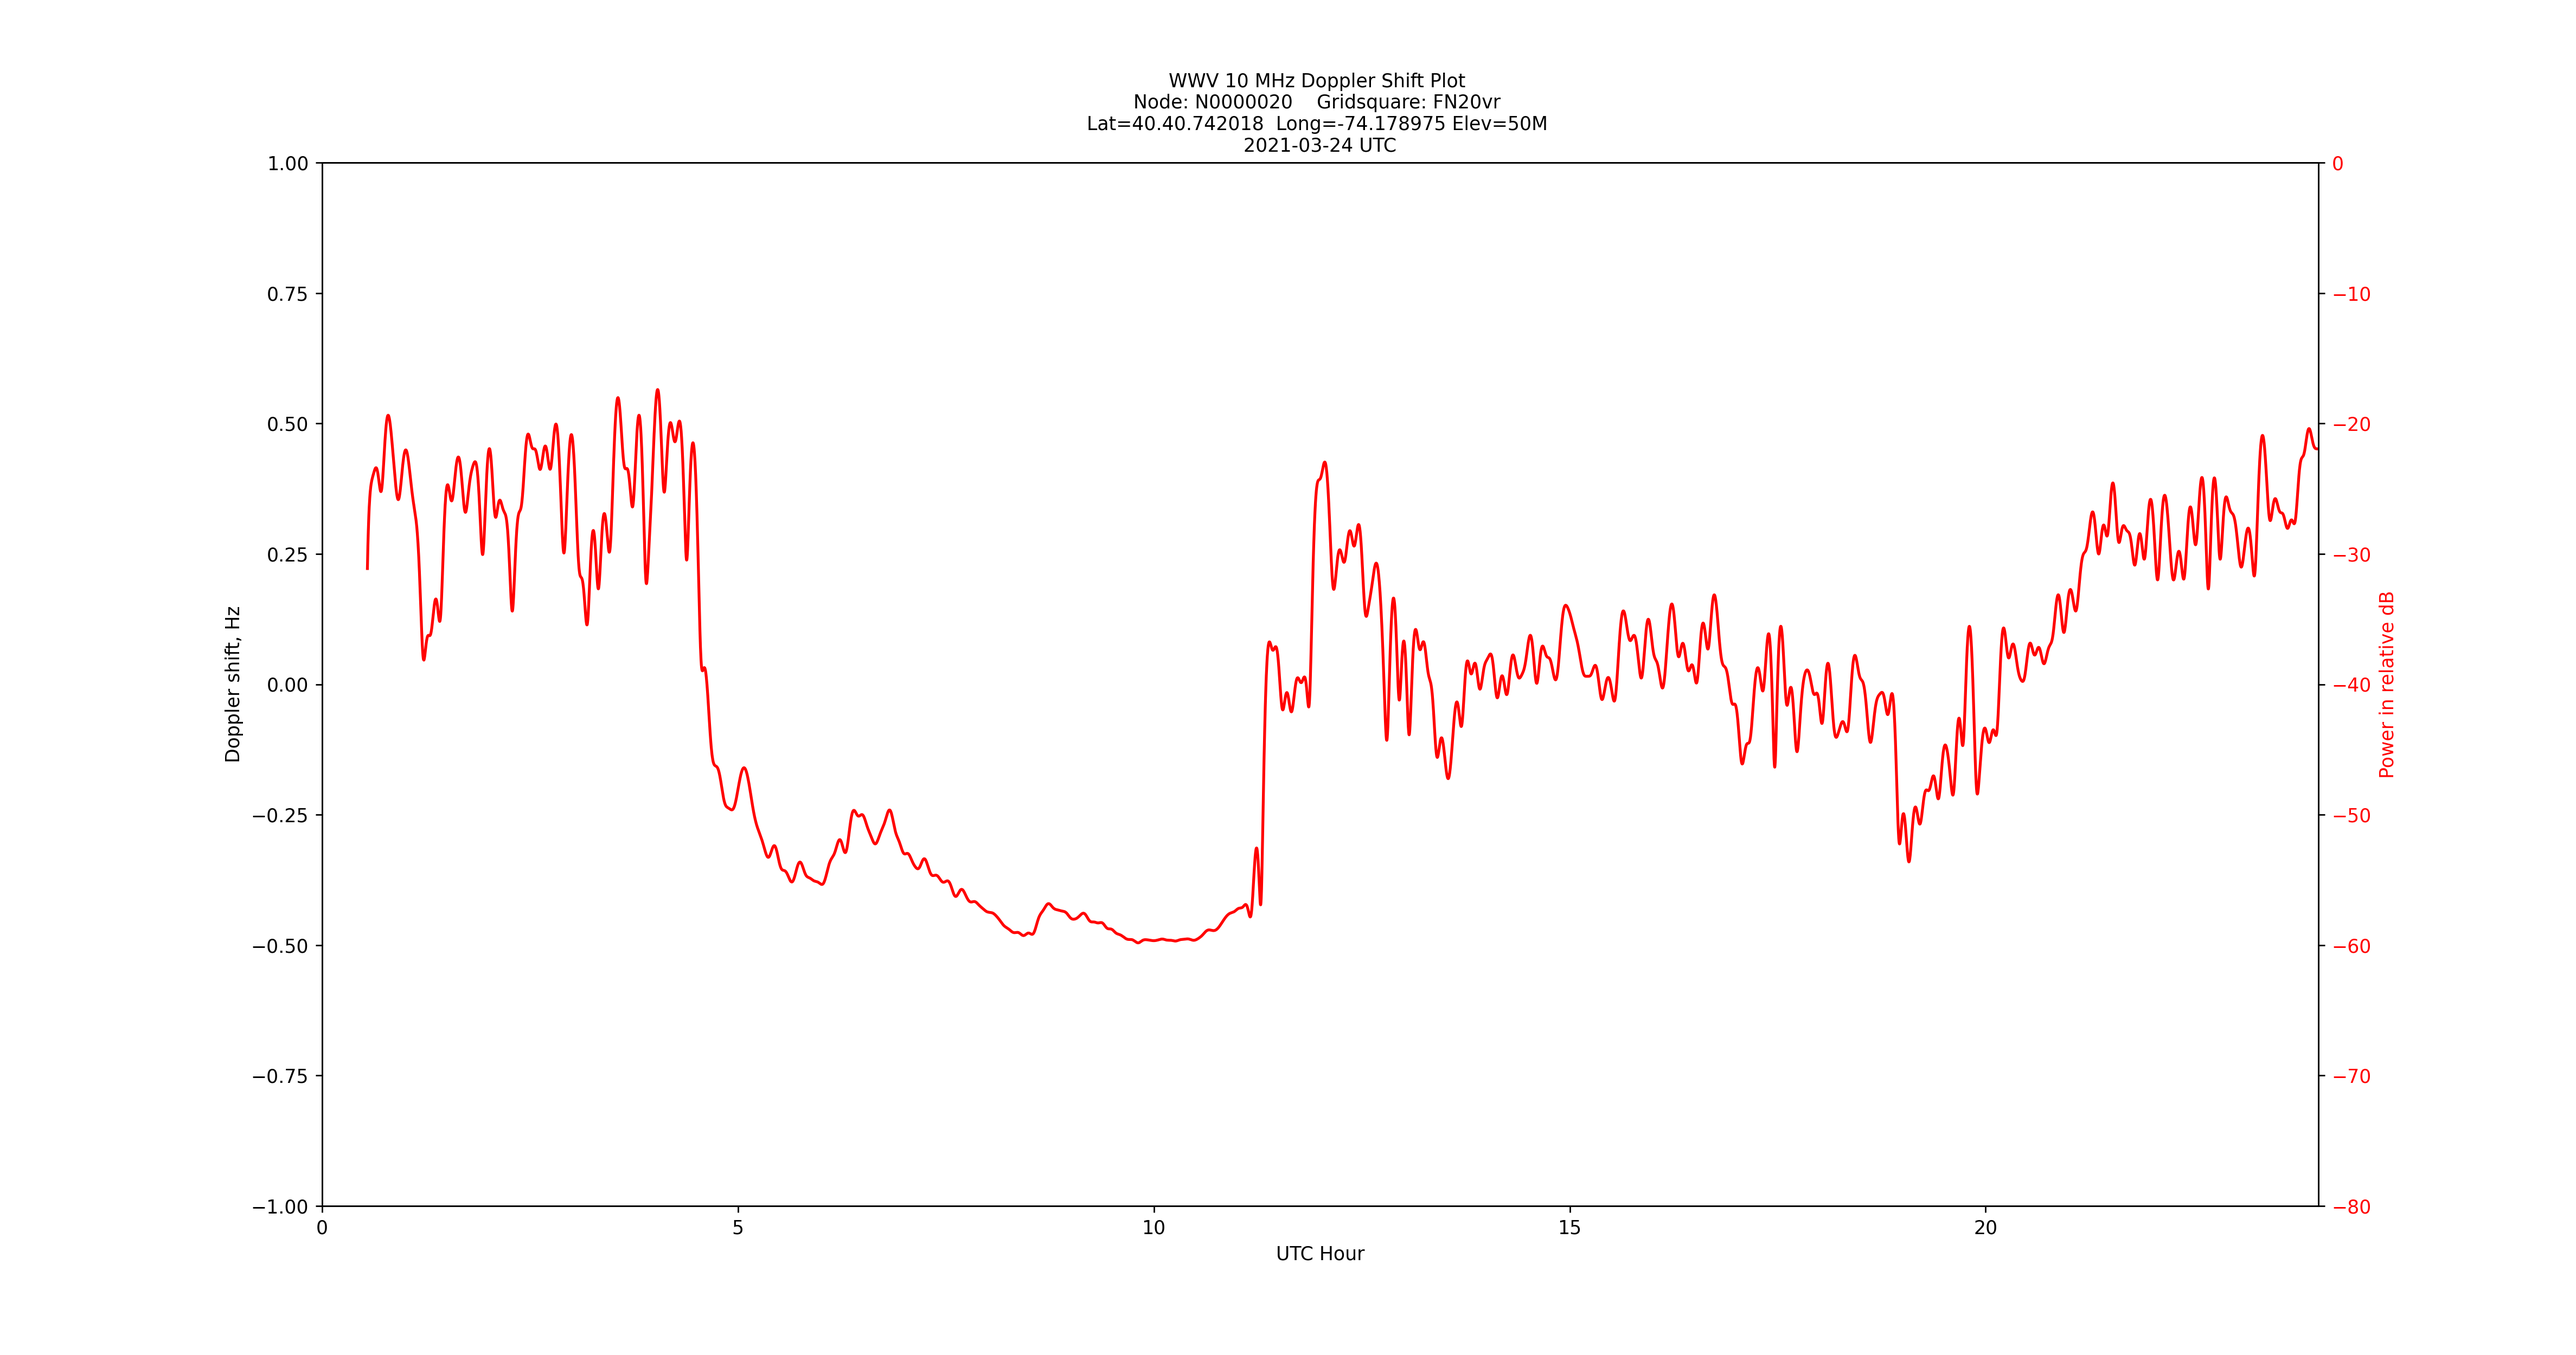
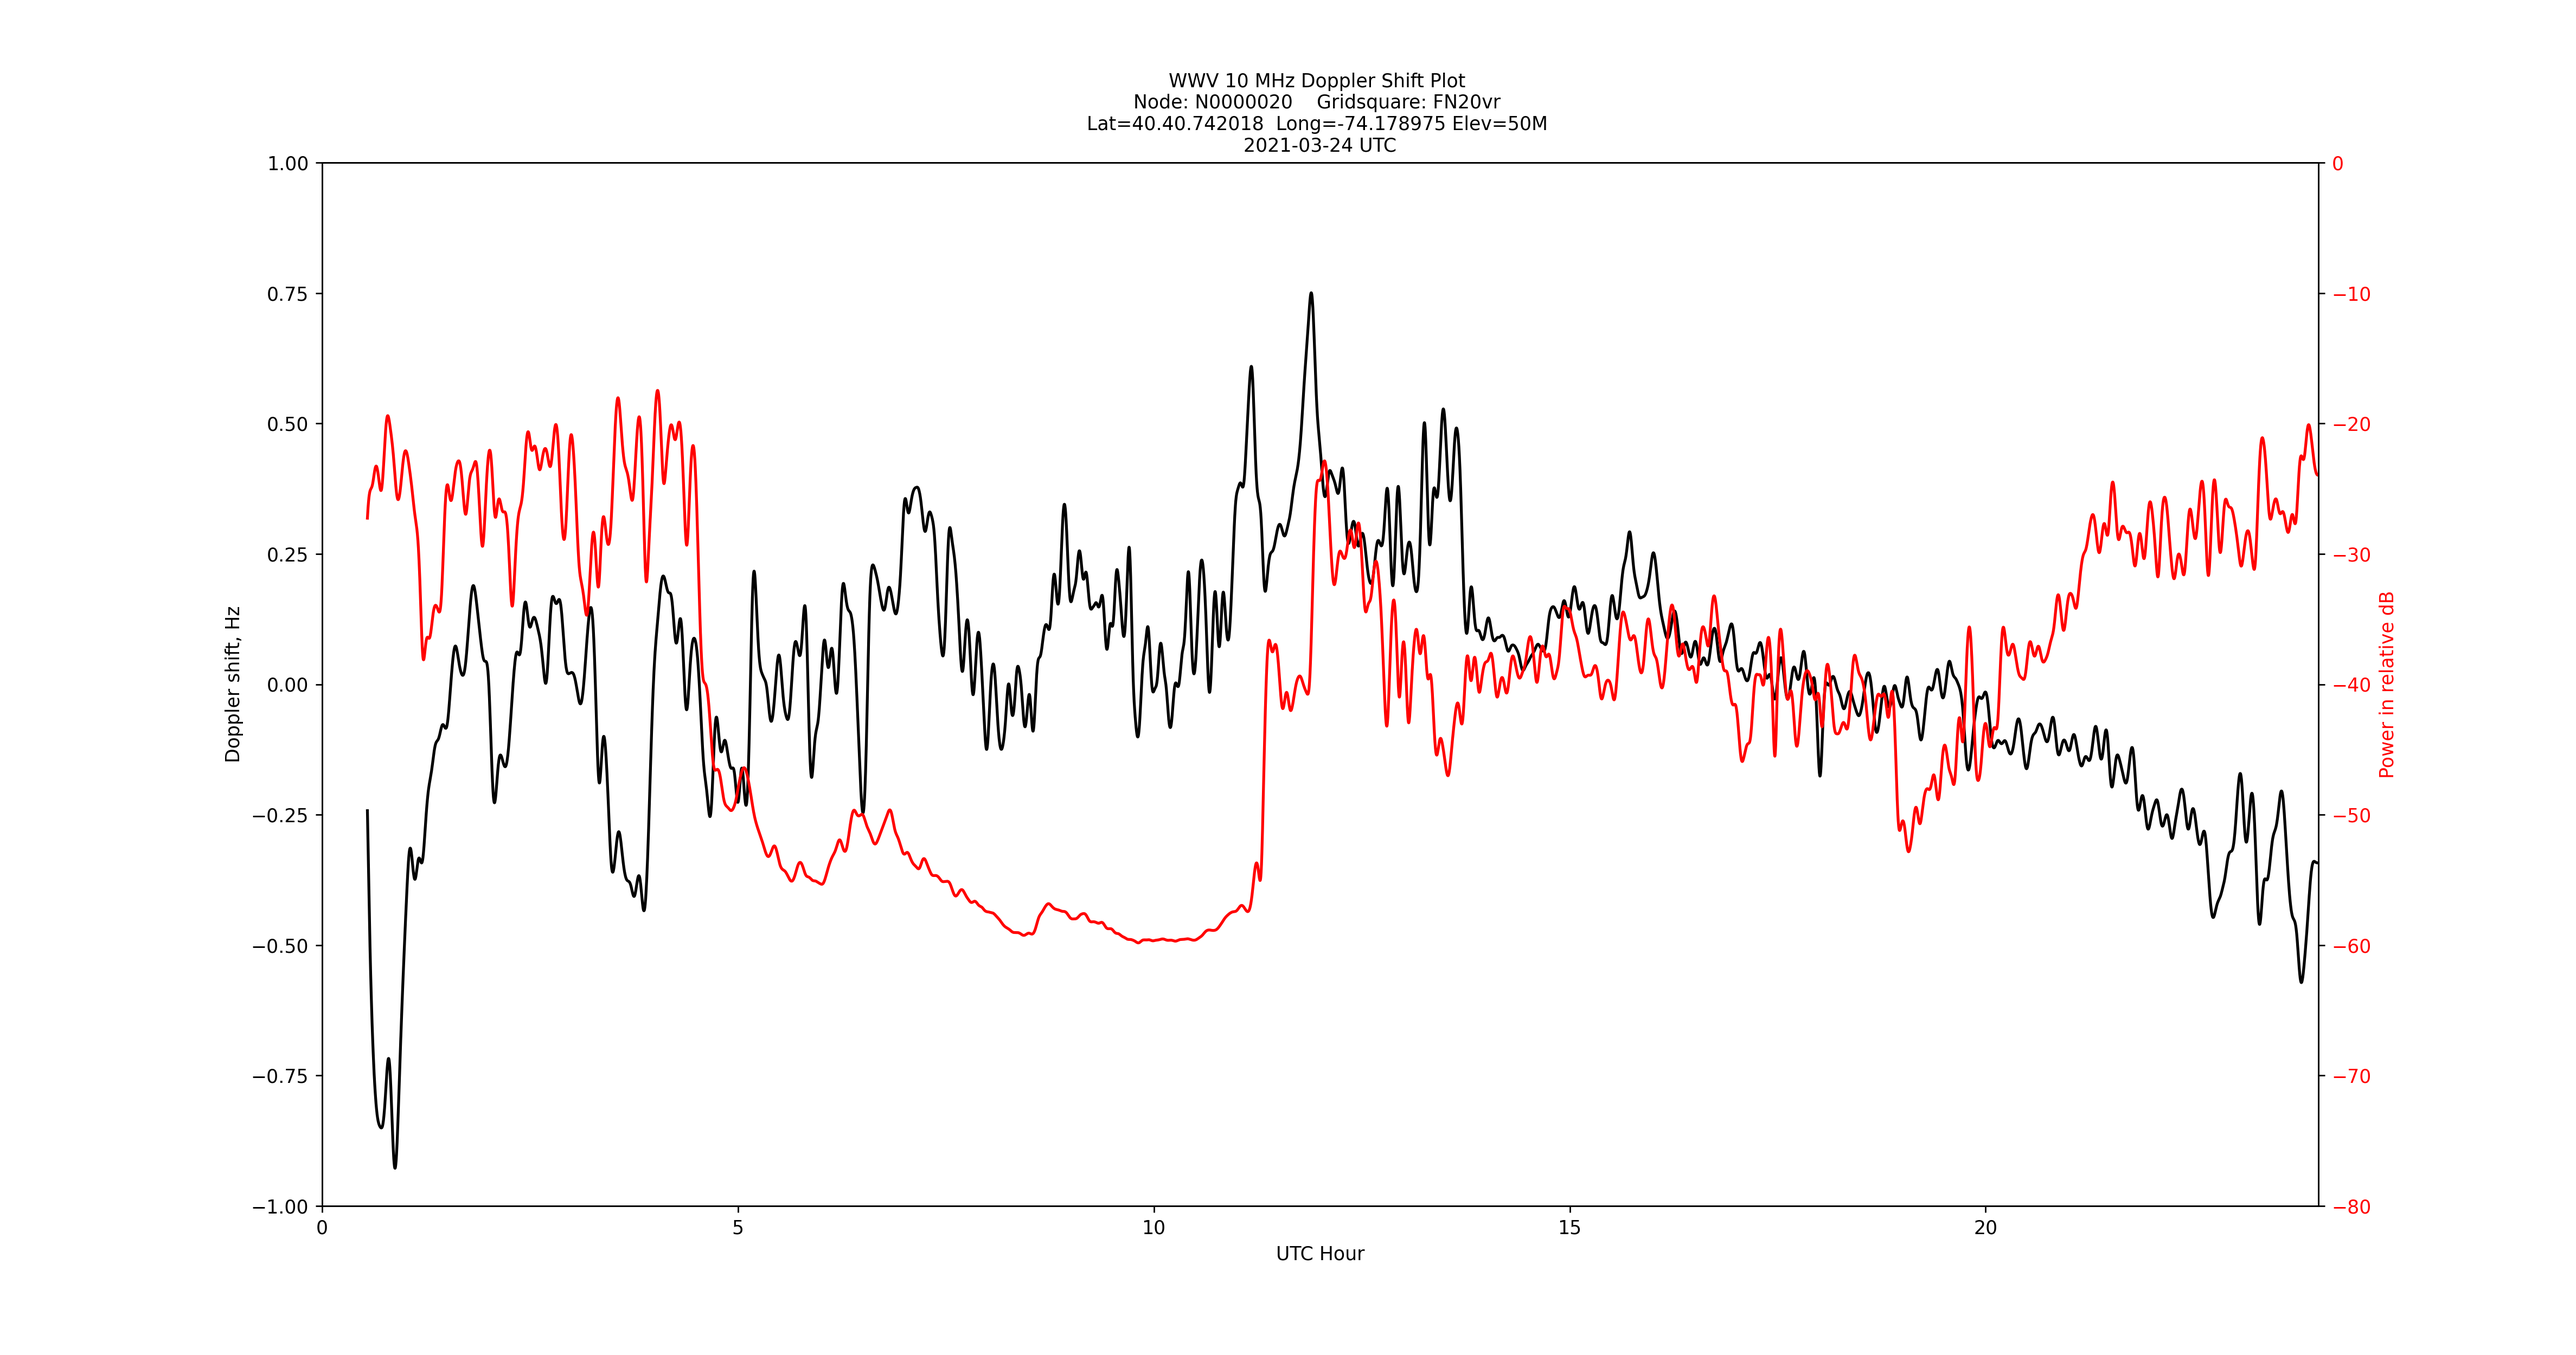
Changed Butter Filter Order to 3

diff --git a/butter_filter_plot.py b/butter_filter_plot.py
@@ -45,10 +45,10 @@ for line in lines[19::n]:
 
 # ~~~~~~~~~~~~~~~~~~~~~~~~~~~~~~~~~~~~~~~~~~~~~~~~~~~
 # Filtering the data with order 3 Butterworth low-pass filter
-# Something is wrong with this filter. Bad sampling rate?
+# Butterworth Order: https://rb.gy/l4pfm
 
-FILTERBREAK = .005
-FILTERORDER = 6
+FILTERORDER = 3     # Order (Falloff Rate)
+FILTERBREAK = .005  # Critical Freq. (Freq to begin falloff)
 b, a = butter(FILTERORDER, FILTERBREAK, analog=False, btype='low')
 
 freq_filt = filtfilt(b, a, freq)
